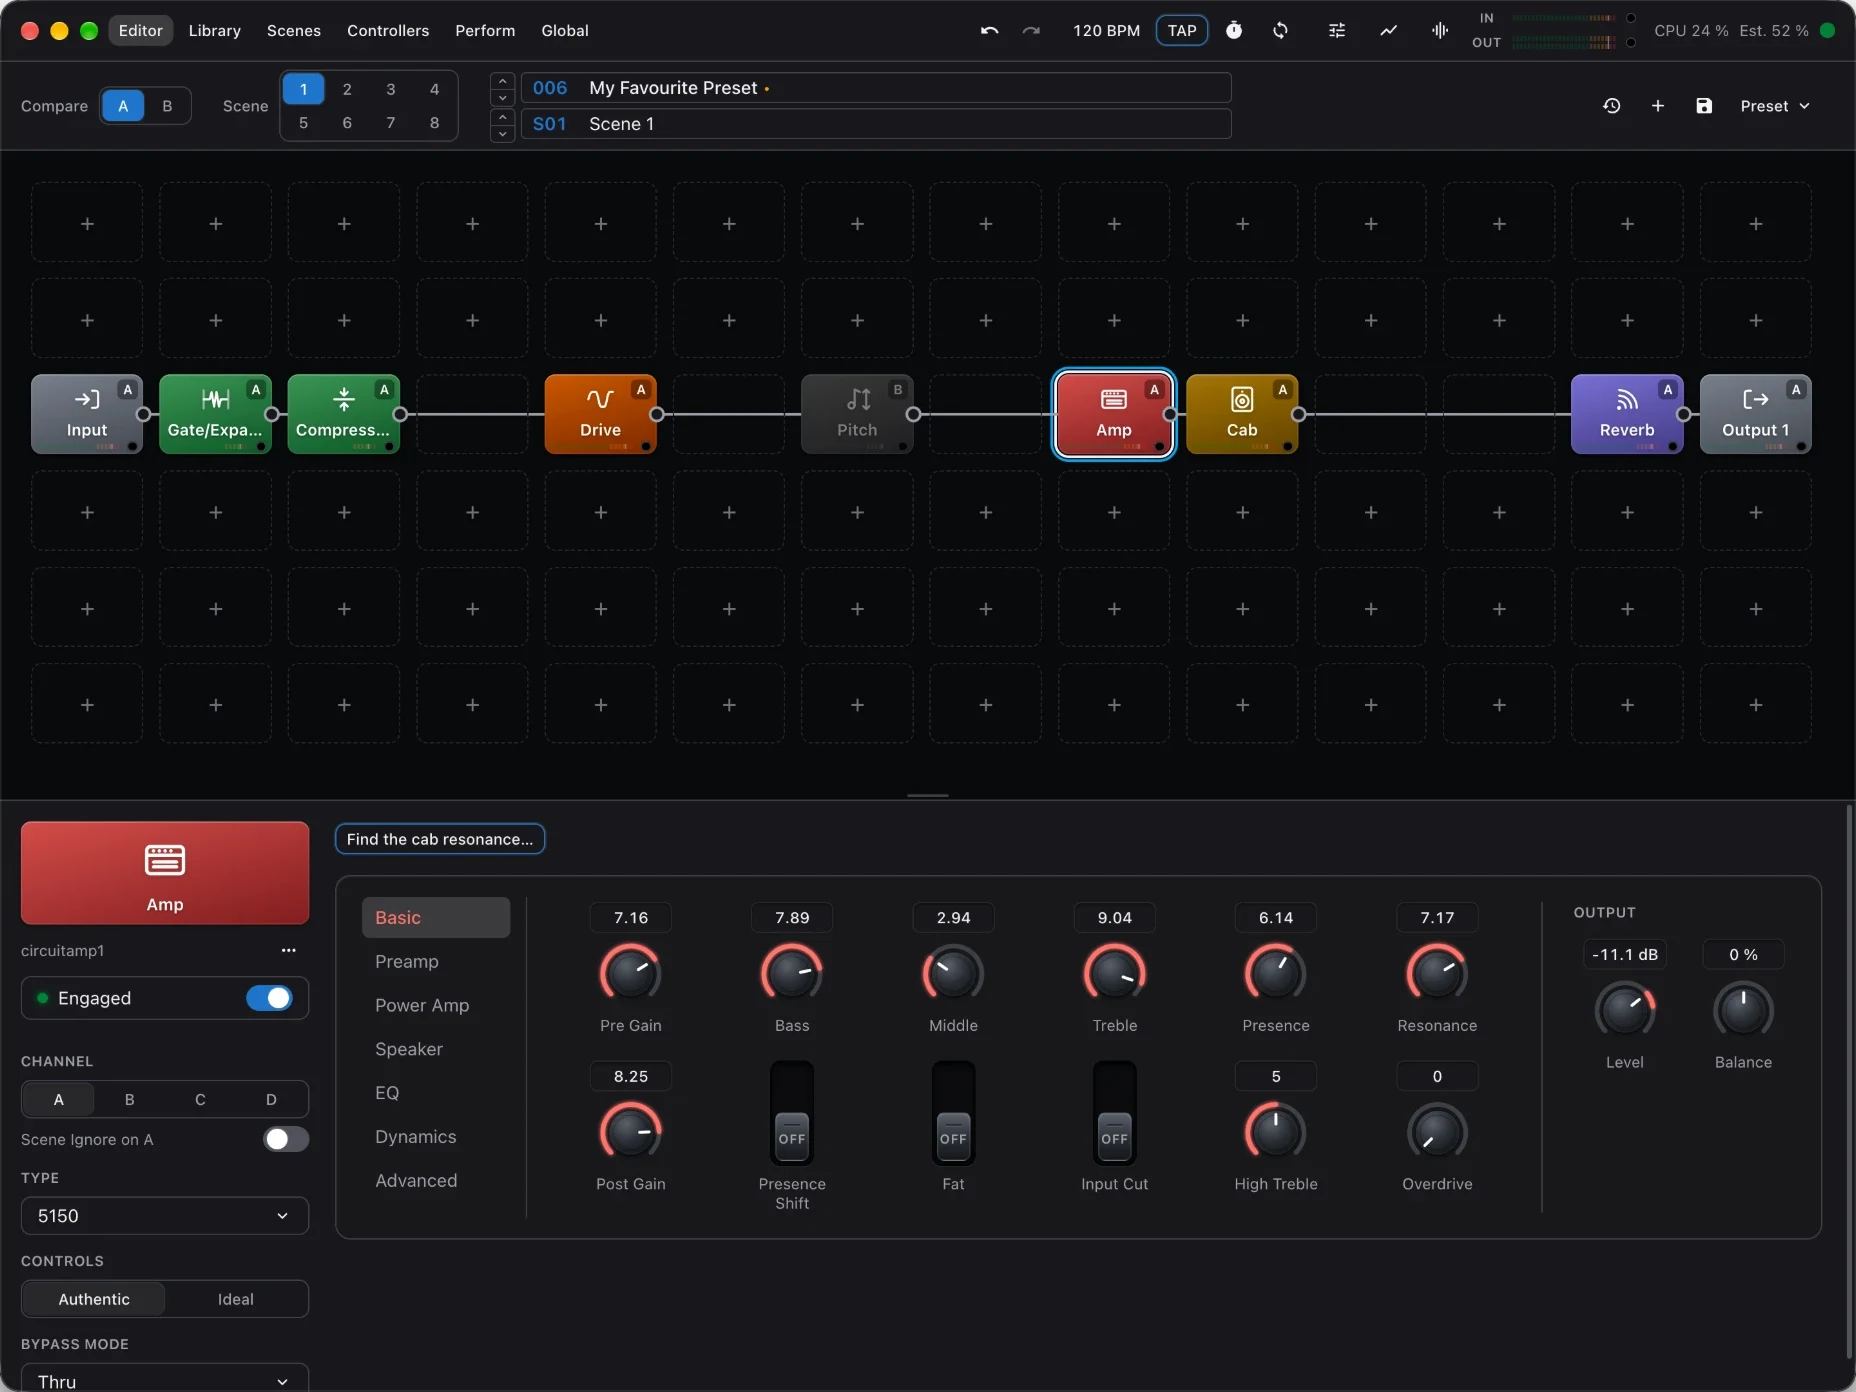
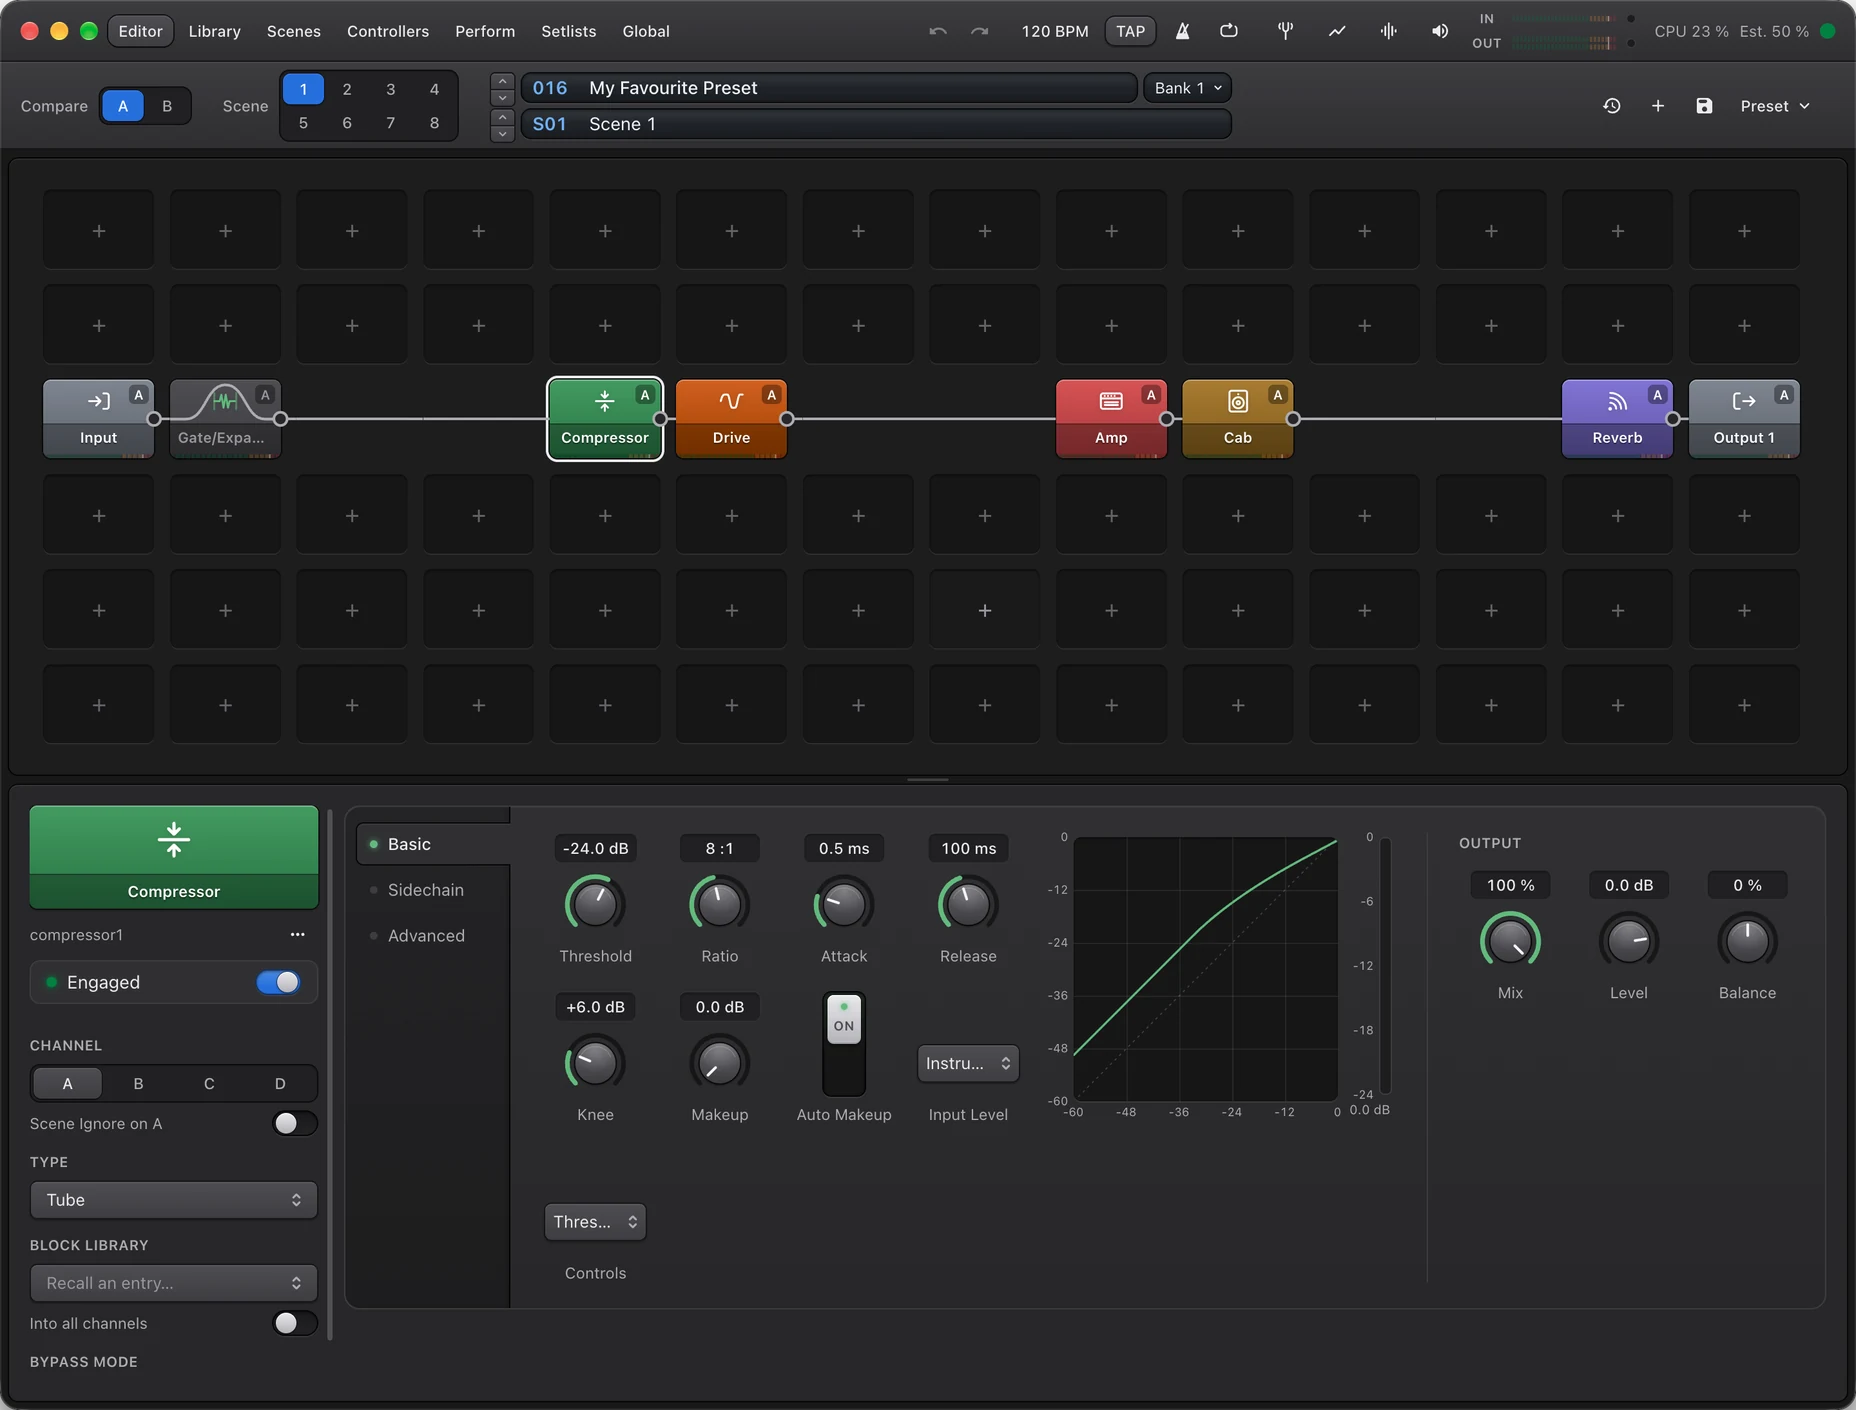
Website: new screenshots of the grid, Amp, Cab, block picker, Library, modifier, Perform and Audio setup

diff --git a/website/src/app/screenshots.ts b/website/src/app/screenshots.ts
@@ -34,8 +34,8 @@ export const SHOTS = {
     ...shot(
       'grid.webp',
       'Cathode — Grid',
-      'The main window: a preset on the grid from Input through Drive, Amp, Cab and Reverb to the Output, with the Amp open in the drawer below it.',
-      '1856 / 1392'
+      'The main window: a preset on the grid from Input through a gate, Compressor, Drive, Amp, Cab and Reverb to Output 1, with the Amp open in the drawer below it.',
+      '1856 / 1410'
     ),
     src: 'screenshots/grid.webp',
     window: true
@@ -45,7 +45,7 @@ export const SHOTS = {
       'amp.webp',
       'Amp — 5150',
       'The Amp block on the 5150 model: its own front panel of gain, tone and presence controls, the channel and type on the left, and the expert pages listed beside the knobs.',
-      '1838 / 530'
+      '1838 / 589'
     ),
     src: 'screenshots/amp.webp'
   },
@@ -54,7 +54,7 @@ export const SHOTS = {
       'cab.webp',
       'Cathode — Cab',
       "The main window with the Cab block open in the drawer: four microphones placed across the speaker, from the cap to the edge and at a distance from the grille, and Mic 1's cabinet, speaker, microphone, position, distance and angle.",
-      '1856 / 1392'
+      '1856 / 1410'
     ),
     src: 'screenshots/cab.webp',
     window: true
@@ -64,7 +64,7 @@ export const SHOTS = {
       'effects.webp',
       'Block picker',
       "Adding a block: the block picker over the grid, a search field above one grid of every block type, from Compressor, Drive, Amp and Cab through the filters, modulation, delays and Reverb to the routing blocks and the outputs, each tile in its category's colour.",
-      '1856 / 1392'
+      '1856 / 1410'
     ),
     src: 'screenshots/effects.webp',
     window: true
@@ -73,8 +73,8 @@ export const SHOTS = {
     ...shot(
       'perform.webp',
       'Cathode — Perform',
-      "The Perform page for this preset: the drive's Drive and Tone, the amp's Gain and Fat, the compressor's threshold, the reverb's decay and pre-delay, the gate's threshold and attack, and the cab's Mic 1 microphone and position, each as a large control.",
-      '1856 / 1392'
+      "The Perform page for this preset: the setlist bar with the current song, the next one and every song as a button, and below it the compressor's threshold, the drive's Drive and Tone, the amp's Gain, Presence and Fat, the cab's Mic 1 speaker and the reverb's size, each as a large control.",
+      '1856 / 1410'
     ),
     src: 'screenshots/perform.webp',
     window: true
@@ -83,8 +83,8 @@ export const SHOTS = {
     ...shot(
       'modifiers.webp',
       'Cathode — Modifier',
-      "A modifier on the drive's Drive knob: LFO 1 as the source, its minimum, maximum, attack and release, the channels it applies on, and an exponential curve drawn on a graph.",
-      '1856 / 1392'
+      "A modifier on the compressor's Threshold: LFO 1 as the source, its minimum, maximum, attack and release, the channels it applies on, and an exponential curve drawn on a graph.",
+      '1856 / 1410'
     ),
     src: 'screenshots/modifiers.webp',
     window: true
@@ -93,8 +93,8 @@ export const SHOTS = {
     ...shot(
       'library.webp',
       'Cathode — Library',
-      'The Library on its Presets tab: presets with favourites, colour tags, author and date, a search by name, author or tag, and tabs for the Block Library, global blocks, NAM amps and IR cabs.',
-      '1856 / 1392'
+      'The Library on its Presets tab: presets with favourites, colour tags, author and date, a filter for all, your own or factory presets, a search by name, author or tag, and tabs for the Block Library, global blocks, NAM amps and IR cabs.',
+      '1856 / 1410'
     ),
     src: 'screenshots/library.webp',
     window: true
@@ -103,8 +103,8 @@ export const SHOTS = {
     ...shot(
       'setup.webp',
       'Cathode — Audio setup',
-      'Settings, Audio setup: the latency of the device input and output, the buffer and the preset, 11.56 ms in all; the input level calibration; and the interface, its sample rate and buffer size.',
-      '1856 / 1392'
+      "Settings, Audio setup: the engine readings on an LCD strip (backend, sample rate, buffer, CPU, no overruns or overloads, and inputs), the latency of the device input and output, the buffer and the preset, 7.83 ms in all, Input 1's calibration, and the audio interface with its sample rate, buffer and outputs.",
+      '1856 / 1410'
     ),
     src: 'screenshots/setup.webp',
     window: true

diff --git a/website/src/app/manual/guide/modifiers.md b/website/src/app/manual/guide/modifiers.md
@@ -1,6 +1,6 @@
 A **modifier** makes a knob move by itself, following a **controller**: an LFO that sweeps back and forth, an envelope that follows how hard you play, an expression pedal under your foot, a value that changes with the scene. This chapter covers adding and editing modifiers, every controller Cathode has, and the tempo that LFOs and delays can follow.
 
-![The modifier dialog on a drive's Drive knob: LFO 1 as the source, its minimum, maximum, attack and release, the channels it applies on, and an exponential curve](screenshots/modifiers.webp)
+![The modifier dialog on a compressor's Threshold: LFO 1 as the source, its minimum, maximum, attack and release, the channels it applies on, and an exponential curve](screenshots/modifiers.webp)
 
 ## How a modifier works
 

diff --git a/website/src/app/manual/guide/live-performance.md b/website/src/app/manual/guide/live-performance.md
@@ -4,7 +4,7 @@ This chapter is about using Cathode on stage and in rehearsal: the Perform page,
 
 The **Perform** page shows the handful of controls you need while playing, large and on one page: a drive's gain, a delay's mix, a reverb's decay, a cab's microphone. It is easier to hit on a small screen or a touch screen than a knob in the block drawer.
 
-![The Perform page: drive, amp, compressor, reverb, gate and cab controls, each shown as a large knob or choice](screenshots/perform.webp)
+![The Perform page: the setlist bar, and compressor, drive, amp, cab and reverb controls, each shown as a large knob, switch or choice](screenshots/perform.webp)
 
 **To add a control:** right-click any knob, switch or choice on a block's page and choose:
 

diff --git a/website/src/app/manual/guide/gain-staging.md b/website/src/app/manual/guide/gain-staging.md
@@ -23,7 +23,7 @@ Set your interface's input gain first, before any preset work:
 
 Leave headroom: a digital input that clips sounds like nothing an amp does. A few decibels below full scale on your hardest playing is plenty; the amp models do not need a hot input, because the calibration below gives them the right voltage anyway.
 
-![The Audio setup page: latency figures, Input 1's calibration and the interface settings](screenshots/setup.webp)
+![The Audio setup page: the engine and latency readings, Input 1's calibration and the audio interface](screenshots/setup.webp)
 
 ## Calibrate Input 1
 

diff --git a/website/src/app/manual/guide/signal-chain.md b/website/src/app/manual/guide/signal-chain.md
@@ -2,7 +2,7 @@ The order of your blocks changes the sound as much as their settings. A fuzz aft
 
 How to place, move and wire blocks on the grid is in [The grid](/manual/the-grid). This chapter is about what goes where.
 
-![A preset on the grid: Input, Drive, Amp, Cab, Reverb, Output](screenshots/grid.webp)
+![A preset on the grid: Input, a gate, Compressor, Drive, Amp, Cab, Reverb, Output 1](screenshots/grid.webp)
 
 ## The classic order
 
